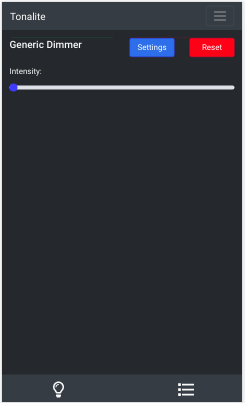
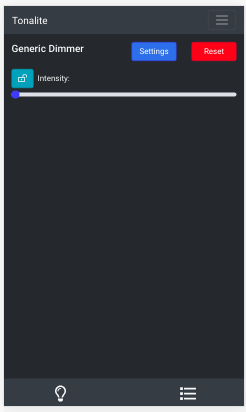
update docs

Changed region(s): [[0.0, 0.0, 1.0, 1.0], [0.5143, 0.0893, 0.7429, 0.1489]]

diff --git a/docs/fixtures/channels/README.md b/docs/fixtures/channels/README.md
@@ -4,6 +4,10 @@ Each of a fixture's channels can be controlled individually. To access the fixtu
 
 ![Fixture channels UI page](../../images/fixture_channels.png)
 
+### Lock
+
+Beside each channel there is a lock icon. It switches from unlocked to locked when you click on it. When a channel is locked, the value you set manually on the slider will override values for the channel that are saved in cues.
+
 ## Buttons
 
 ### Settings
